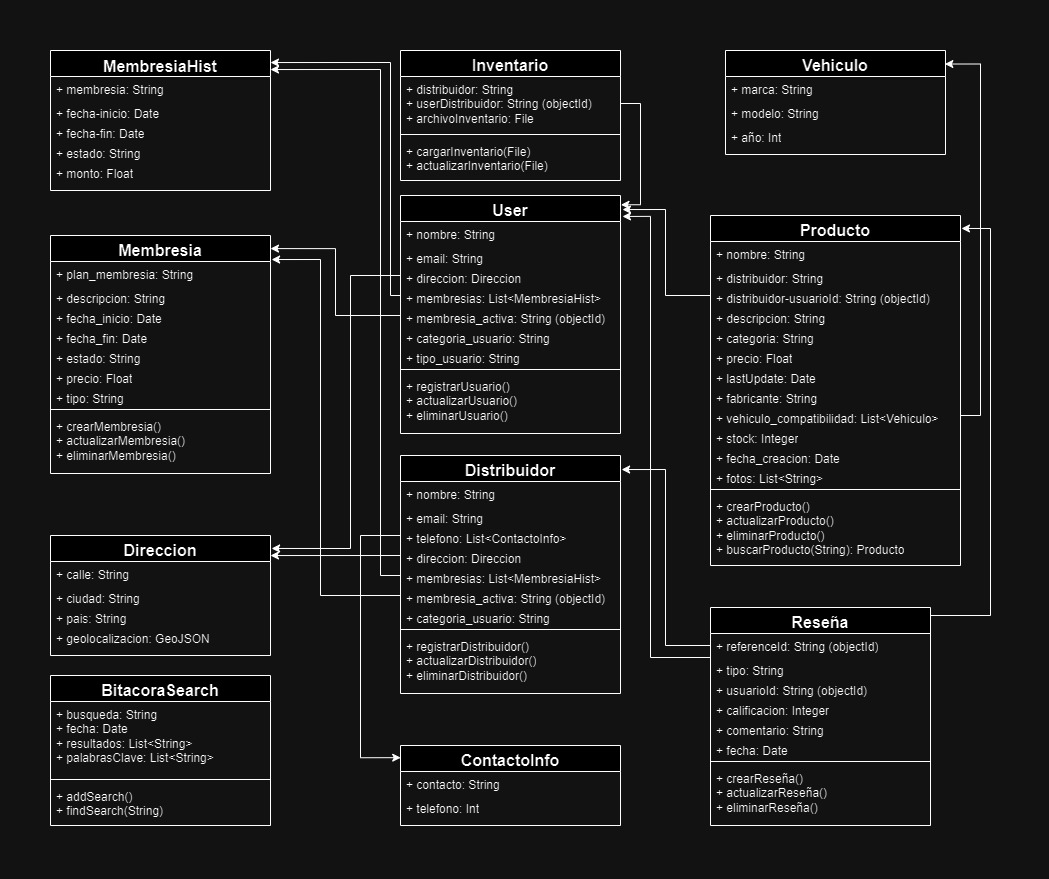
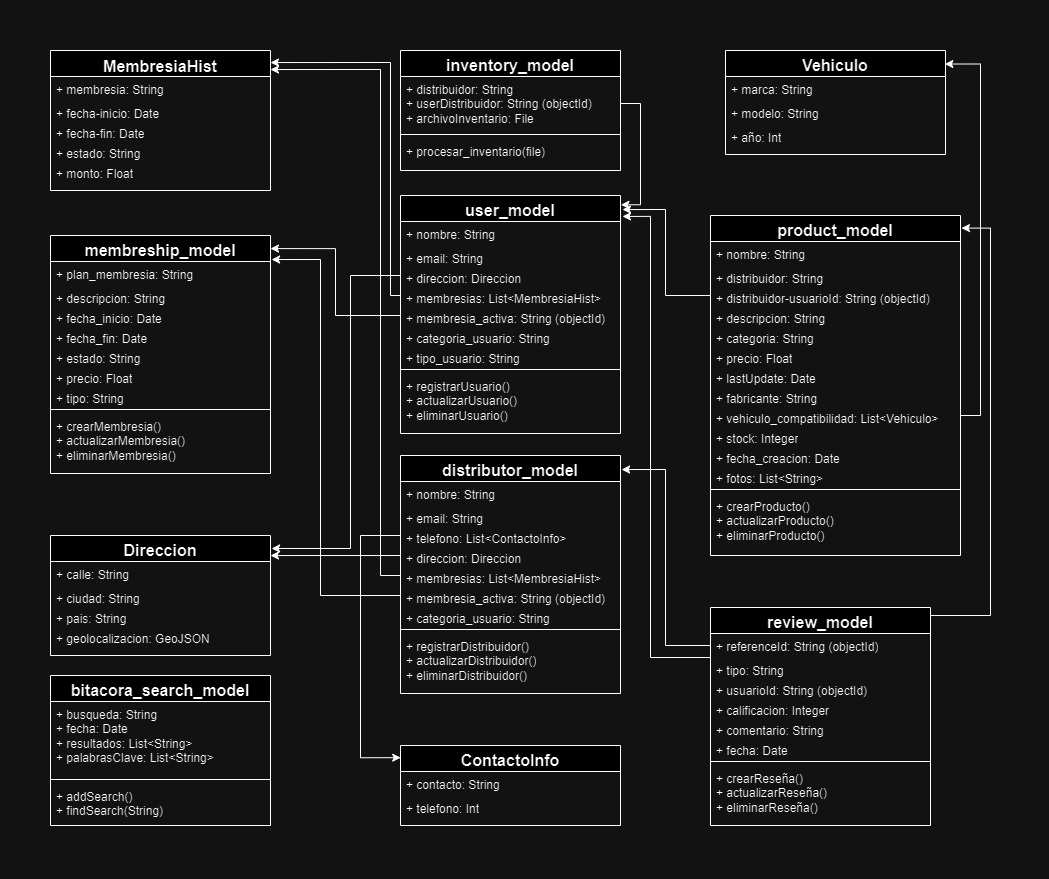
Readme Listo

diff --git a/backend/README.md b/backend/README.md
@@ -1,0 +1,106 @@
+# Backend
+
+## Índice
+- [Descripción General](#descripción-general)
+- [Estructura del proyecto](#estructura-del-proyecto)
+- [Diagrama de Bloques](#diaframa-de-bloques)
+- [Diagrama de Clases](#diagrama-de-clases)
+
+
+## Descripción General
+
+Este proyecto contiene el backend para los dos endpoints principales del problem statement definido para Auctia, en donde los distribuidores pueden cargar archivos a sus inventarios y buscar productos en la plataforma.
+
+## Estructura del Proyecto
+
+```plaintext
+
+backend/
+│
+├── Auctia-Boilerplate/
+│   │
+│   ├── app/
+│   │   ├── controllers/
+│   │   │   ├── inventory_controller.py      # Controlador para cargar y actualizar inventario
+│   │   │   ├── search_controller.py         # Controlador para buscar productos
+│   │   │
+│   │   ├── services/
+│   │   │   ├── sage_maker_service.py        # Servicio de Amazon SageMaker para procesar inventarios
+│   │   │   ├── inventory_service.py         # Servicio para validar y manejar inventarios
+│   │   │   ├── product_search_service.py    # Servicio para buscar productos
+│   │   │   ├── stripe_service.py            # Servicio de Stripe (vacío por ahora)
+│   │   │   ├── yotpo_service.py             # Servicio de Yotpo (vacío por ahora)
+│   │   │   ├── sns_service.py               # Servicio de Amazon SNS (vacío por ahora)
+│   │   │   ├── api_gateway_service.py       # Servicio de Amazon API Gateway (vacío por ahora)
+│   │   │   ├── shipping_service.py          # Servicio de envíos (vacío por ahora)
+│   │   │
+│   │   ├── repositories/
+│   │   │   ├── add_product_repository.py    # Repositorio para añadir productos
+│   │   │   ├── update_product_repository.py # Repositorio para actualizar productos
+│   │   │   ├── search_product_repository.py # Repositorio para buscar productos
+│   │   │
+│   │   ├── models/                          # Modelos de MongoDB para mapear colecciones
+│   │   │   ├── user_model.py
+│   │   │   ├── product_model.py
+│   │   │   ├── distributor_model.py
+│   │   │   ├── review_model.py
+│   │   │   ├── inventory_model.py
+│   │   │   ├── membership_model.py
+│   │   │   ├── bitacora_search_model.py
+│   │   │
+│   │   ├── initializers/
+│   │   │   ├── db_initializer.py            # Script para inicializar la base de datos desde los JSON
+│   │   │
+│   │   ├── security/
+│   │   │   ├── auth.py                      # Módulo de autenticación y autorización usando JWT
+│   │   │
+│   │   ├── config.py                        # Configuración de Flask y MongoDB Atlas
+│   │   ├── __init__.py                      # Inicialización de la app Flask
+│   │
+│   ├── data/                                # Carpeta con archivos JSON para inicializar la base de datos
+│   │   ├── user.json
+│   │   ├── producto.json
+│   │   ├── distribuidores.json
+│   │   ├── reseñas.json
+│   │   ├── inventario.json
+│   │   ├── membresias.json
+│   │   ├── bitacoraSearches.json
+│   │
+│   ├── tests/                               # Carpeta de pruebas unitarias con pytest
+│   │   ├── test_inventory.py                # Pruebas unitarias para Inventory Service
+│   │   ├── test_search.py                   # Pruebas unitarias para Search Service
+│   │
+│   ├── Dockerfile                           # Dockerfile para construir el contenedor
+│   ├── docker-compose.yml                   # Configuración de Docker Compose
+│   └── requirements.txt                     # Dependencias de Python (Flask, PyMongo, PyJWT, pytest, etc.)
+└── README.md                            # Documentación del proyecto
+```
+
+## Diagrama de Bloques
+
+![Diagrama de Bloques.](images/Diagrama-Bloques.png)
+Aquí podrá revisar el código del diseño de bloques (boilerplate): [Boilerplate](./backend/Auctia-Boilerplate/app). (En el bloque de Models se muestran solo los nombres de las clases, que luego se desglosarán en el diagrama de clases).
+
+
+
+En este diagrama se observa que en el bloque de controllers hay dos controllers que corresponden a los dos endpoints principales para nuestro scope y problem statement. 
+
+Estos dos controllers son "inventory_controller" y "search_controller". search_controller será para la búsqueda de productos, y llamará al servicio "product_search_service"; este servicio es por si se necesita hacer más lógica de código antes de realizar la búsqueda, luego se procede a llamar a "search_product_repository" en el cual se ejecuta precisamente la consulta del producto a la colección de mongoDB. Este endpoint actualmente es funcional.
+
+inventory_controller será el endpoint para la carga de archivos de inventario. Este endpoint llamará al "sage_maker_service" en el cual se hace una conexión al servicio de terceros, Amazon SageMaker, al que se le pedirá que procese el archivo recibido y saque del mismo todos los productos del inventario y los almacene de alguna forma en un array. Luego se llamará al "inventory_service", en el cual se hará primero una validación de todos los productos en el array, para determinar si ya existe el producto en la base de datos para actualizarlo o es uno nuevo para agregarlo. Dependiendo de esto se llamará a "update_product_repository" o "add_product_repository", respectivamente, y estos se encargarán de hacer la operación en la base de datos de MongoDB. Este endpoint de momento no es funcional, ya que no se tiene una conexión con el servicio de terceros Amazon SageMaker.
+
+
+En el diagrama también se observa un security layer, en el cual está "auth", que se usará para hacer la conexión con Auth0 y Cognito y permitir authentication y authorization en el sistema.
+
+También se observa el bloque de "initializer" donde está "db_initializer" que se encarga de conectarse a MongoDB Atlas, crear la base de datos Auctia y crear e inicializar las colecciones de la misma a partir de los modelos en archivos JSON que se encuentran en la carpeta [Datos](./backend/Auctia-Boilerplate/data).
+
+Por último podrá observar un bloque de Models, donde se muestran los nombres de todas las clases de modelos de datos que se necesitarán en el sistema y que están desglosados en el [Diagrama de Clases](#diagrama-de-clases). 
+
+
+## Diagrama de Clases
+
+![Diagrama de Clases.](images/Diagrama-Clases.jpg)
+Aquí podrá revisar el código del diseño de clases en la carpeta Models: [Models](./backend/Auctia-Boilerplate/app/models).
+
+
+En el diagrama se pueden ver 7 clases principales y 4 secundarias. Las principales son "bitacora_search_model", "distributor_model", "inventory_model", "membership_model", "product_model", "review_model" y "user_model". Estas clases están basadas en el diseño de [Datos](./backend/Auctia-Boilerplate/data). Los atributos de estas clases son los que se encuentran en los respectivos archivos JSON en la carpeta [Datos](./backend/Auctia-Boilerplate/data). Las clases están definidas en código el el folder [Models](./backend/Auctia-Boilerplate/app/models), y tienen sus respectivos metodos de agregar, actualizar y eliminar, aunque de momento no son utilizados y dependiendo de las siguientes etapas del sistema estos metodos podrían modificarse. Las otras clases secundarias que son "MembresiaHist", "Direccion", ContactoInfo" y "Vehiculo" están diseñadas únicamente de manera gráfica, para mayor claridad y comprensión, ya que en realidad representan documentod embebidos.

diff --git a/README.md b/README.md
@@ -12,6 +12,8 @@ El problema que se busca resolver, inicialmente para el nicho de la venta de rep
 - [Storyboard](#storyboard)
 - [Requerimientos No Funcionales](#requerimientos-no-funcionales)
 - [Front-end](#front-end)
+- [Datos](#Datos)
+- [Back-end](#back-end)
 
 ## Problem Statement
 Cargar los inventarios de los distribuidores sin intervención humana.
@@ -159,3 +161,33 @@ Usar Swagger para documentar las APIs y Confluence para mantener y actualizar la
 El frontend del proyecto está disponible en el siguiente subfolder: [Front-end](./frontend).
 
 Para más detalles, consulta la documentación interna del frontend. [README.md](./frontend/README.md).
+
+## Datos
+
+![bitacoraSearches.](images/bitacoraSearches.png)
+[bitacoraSearches](./backend/Auctia-Boilerplate/data/bitacoraSearches.json).
+
+![distribuidores.](images/distribuidores.png)
+[distribuidores](./backend/Auctia-Boilerplate/data/distribuidores.json).
+
+![inventario.](images/inventario.png)
+[inventario](./backend/Auctia-Boilerplate/data/inventario.json).
+
+![membresias.](images/membresias.png)
+[membresias](./backend/Auctia-Boilerplate/data/membresias.json).
+
+![producto.](images/producto.png)
+[producto](./backend/Auctia-Boilerplate/data/producto.json).
+
+![reseñas.](images/reseñas.png)
+[reseñas](./backend/Auctia-Boilerplate/data/reseñas.json).
+
+![user.](images/user.png)
+[user](./backend/Auctia-Boilerplate/data/user.json).
+
+
+## Back-end
+
+El backend del proyecto está disponible en el siguiente subfolder: [Back-end](./backend).
+
+Para más detalles, consulta la documentación interna del backend. [README.md](./backend/README.md).
